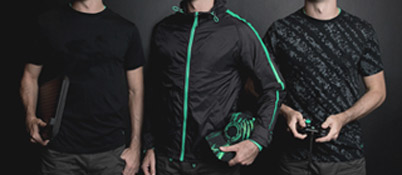
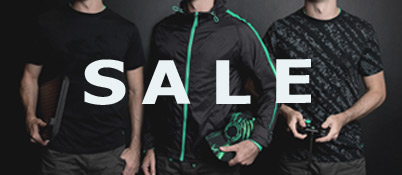
commit

diff --git a/astound/css/styles.css b/astound/css/styles.css
@@ -446,11 +446,17 @@ body {
     height: 100%;
     width: 100%;
     position: relative; }
-  .wrapper_sale p {
-    position: absolute;
-    vertical-align: middle;
-    height: 100%;
-    width: 100%; }
+  .wrapper_sale .wrap {
+    position: relative;
+    display: table; }
+    .wrapper_sale .wrap div {
+      text-align: center;
+      display: table-cell;
+      vertical-align: middle;
+      position: absolute;
+      width: 100%;
+      top: 0;
+      bottom: 0; }
 
 .wrapper {
   min-width: 960px;

diff --git a/astound/index.html b/astound/index.html
@@ -14,7 +14,6 @@
  			<div class="wrap">
  				<img src="img/sale.jpg">
  			</div>
- 			<p>Sale</p>
  		</div>
  		<div class="wrapper">
  			<div class="wrap g-clearfix">
